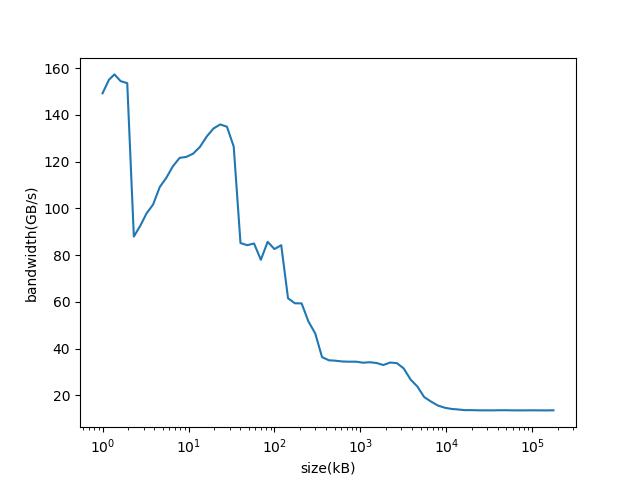
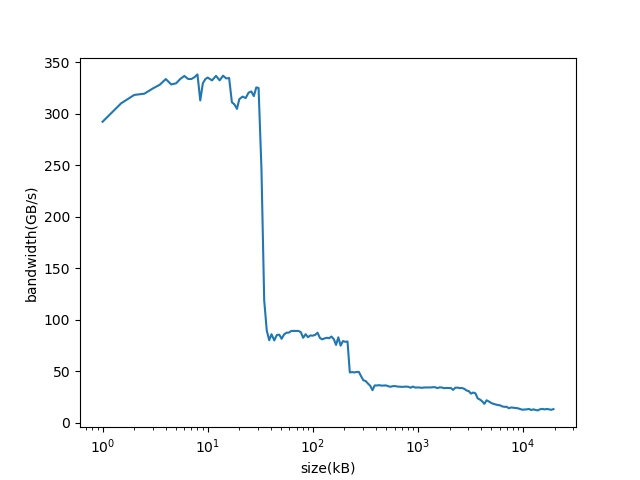
unroll the inner loop for test_band_width

diff --git a/src/test_band_width.cpp b/src/test_band_width.cpp
@@ -7,6 +7,7 @@
 
 
 const int BLOCK_SIZE=16;
+const int UNROLL=8;
 
 
 struct Worker{
@@ -16,8 +17,9 @@ struct Worker{
    int n;  
    unsigned int result;
    void operator()(){
-        for(int i=0;i<n;i+=BLOCK_SIZE){           
-             result+=mem[i];
+        for(int i=0;i<n;i+=BLOCK_SIZE*UNROLL){ 
+           for(int j=0;j<UNROLL;j++)          
+             result+=mem[i+BLOCK_SIZE*j];
         }
    }
 
@@ -49,9 +51,9 @@ int main(){
    
    int size=BLOCK_SIZE*16;
    std::cout<<"size(kB),bandwidth(GB/s)\n";
-   while(size<5e7){
+   while(size<5e6){
        std::cout<<get_size_in_kB(size)<<","<<get_speed_in_GB_per_sec(size)<<"\n";
-       size=(static_cast<int>(size*1.2)/BLOCK_SIZE)*BLOCK_SIZE;
+       size=(static_cast<int>(size*1.05+BLOCK_SIZE*UNROLL)/(BLOCK_SIZE*UNROLL))*(BLOCK_SIZE*UNROLL);
    }
 
    //ensure that nothing is optimized away:

diff --git a/README.md b/README.md
@@ -16,7 +16,7 @@ https://github.com/realead/timeitcpp is used as submodule, thus clone it with gi
 
 My machine (an Intel-Broadwell)  can do about 10^9 double-multiplications per second, that means at most 8GB/s per single processor. But data is fetched in 64bytes, so stepping over 7 doubles and utilizing only 8 bytes we'll get to 64 GB/s. 
 
-Even better, an integer addition can be done in 0.35 seconds thus leading to maximal band width of 182 GB/s. There is no pipeling for integer-addition (as compared to float-addition), so we don't have to watch out for dependencies on the prefivious results.
+Even better, an integer addition can be done in 0.35 nano-seconds thus leading to maximal band width of 182 GB/s. There is no pipeling for integer-addition (as compared to float-addition), so we don't have to watch out for dependencies on the prefivious results.
 
 
 Running `sh run_test.sh band_width` we get the following results (will be saved in `src/output_test_band_width.png`, `src/output_test_band_width.txt`)
@@ -28,17 +28,23 @@ Running `sh run_test.sh band_width` we get the following results (will be saved 
 Results per single thread:
 
     Memory type     Size         Speed (GB/s)
-    L1 Cache:       32kB          140            *there are not really 64 fetched, 
-    L2 Cache:      128(256)kB      80            *For whatever reason the second 128k pof 256kB L2-cachel are not that easily utilized
-    L3 Cache:        4MB           30
+    L1 Cache:       32kB          310            *there are not really 64 byte fetched,  so 310 isn't really valid
+    L2 Cache:      128(256)kB      80            *For whatever reason the second 128k of 256kB L2-cachel are not that easily utilized
+    L3 Cache:        4MB           35
     RAM:             XXX           13
 
 
 There are some things worth mentioning:
 
-  * a performance drop of the L1 cache for sizes around 2KB (reason is yet unknown to me)
   * drop of speed for L1->L2 is more abrupt than L2->L3, it seems as if L1 were not shared between threads, but L2 is (at least to some degree)
   * L3 seems to be shared among all processors/threads
+
+I'm not really sure that for L1-cache the task is bandwidth bound. At least it is important to unroll the inner loop, otherwise 2 addition and not one addition are needed per memory access. There is also an issue with branch misses which leads to a performance drop if inner loop has around 32 interation:
+
+![1](results/output_test_band_width_nounroll.png)
+
+
+See https://stackoverflow.com/q/53751321/5769463 for more details
 
 
 ## latency
